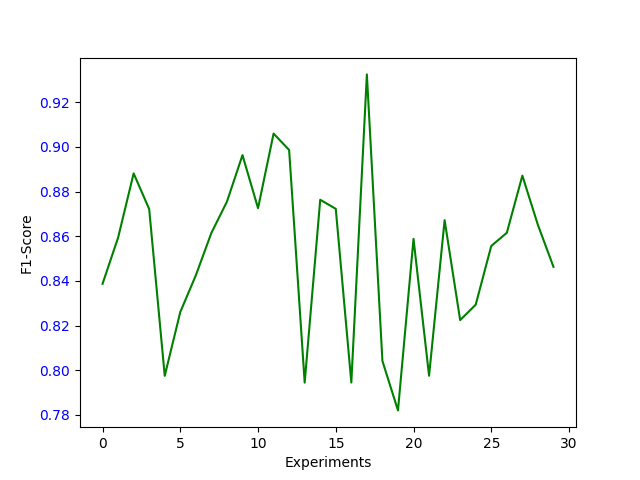
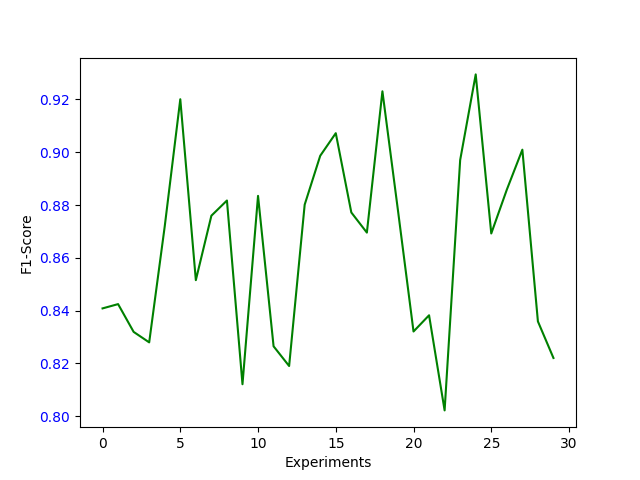
Running Experiments

diff --git a/run.py b/run.py
@@ -373,25 +373,21 @@ def main(dataset):
 
 
 if __name__ == '__main__':
-    time_start = process_time()
 
     # dataset_name = 'wine'
     # main(dataset_name)
 
-    dataset_name = 'ionosphere'
-    main(dataset_name)
+    # dataset_name = 'ionosphere'
+    # main(dataset_name)
 
     # dataset_name = 'breast_cancer'
     # main(dataset_name)
 
-    # dataset_name = 'digits1_7'
-    # main(dataset_name)
+    dataset_name = 'digits1_7'
+    main(dataset_name)
     # #
     # dataset_name = 'digits3_9'
     # main(dataset_name)
 
     # dataset_name = 'banknotes'
     # main(dataset_name)
-    time_end = process_time()
-
-    print(time_end - time_start)
